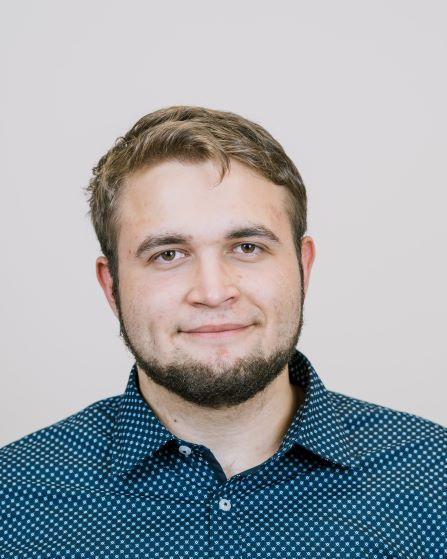
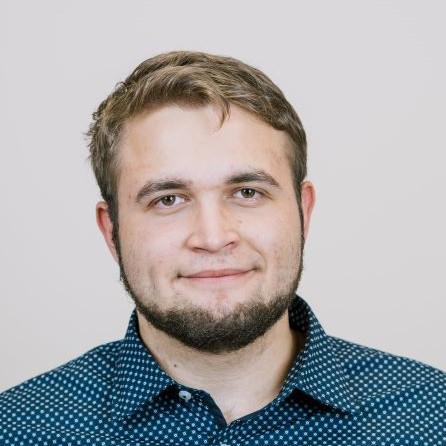
pildid on korras

diff --git a/vaheleht.html b/vaheleht.html
@@ -31,10 +31,10 @@
             <a href="https://www.facebook.com/carolin.kirotar"><img src="Caro.jpg" alt="Carolin" style="width:300px;height: 300px"/></a>
         </div>
         <div class = "veerg">
-            <a href="https://www.facebook.com/marc.david.332" ><img src="Marc.jpg" alt="Marc"  style="width:250px;height:300px;"/></a>
+            <a href="https://www.facebook.com/marc.david.332" ><img src="Marc.jpg" alt="Marc"  style="width:300px;height:300px;"/></a>
         </div>
         <div class = "veerg">
-            <a href="https://www.facebook.com/joosepka"><img src="GIt.jpg" alt="Joosep" style="width:250px;height: 300px;"></a>
+            <a href="https://www.facebook.com/joosepka"><img src="GIt.jpg" alt="Joosep" style="width:300px;height: 300px;"></a>
        </div>
 
     </div>
